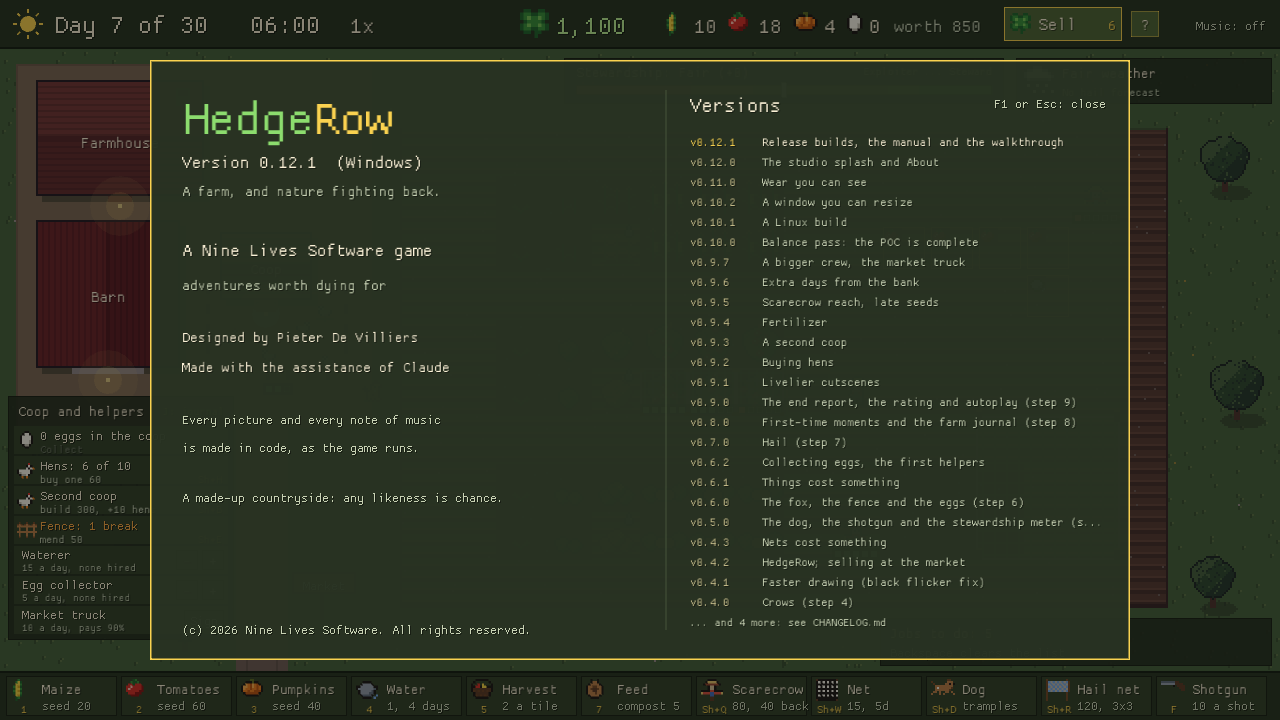
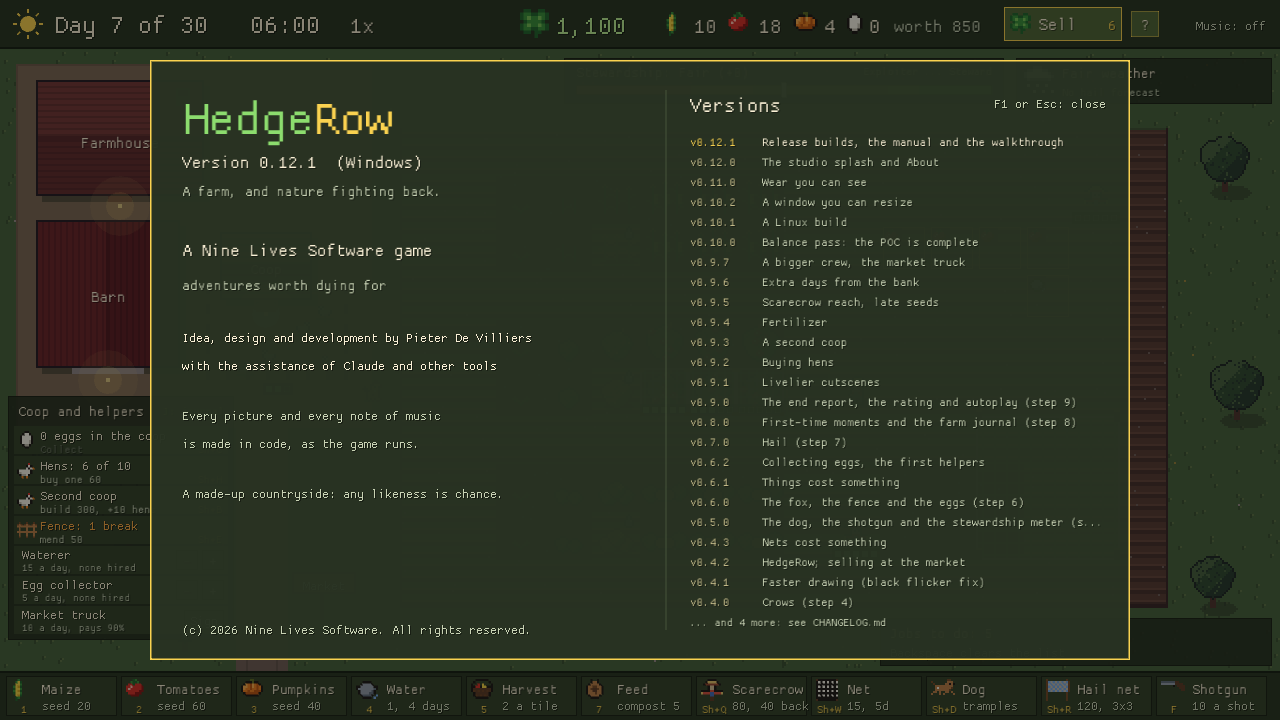
Credits: idea, design and development by Pieter De Villiers, with the assistance of Claude and other tools

Changed region(s): [[0.125, 0.4583, 0.375, 0.5194], [0.1562, 0.6722, 0.375, 0.7028], [0.1562, 0.6111, 0.3125, 0.6417]]

diff --git a/games/hedgerow/index.html b/games/hedgerow/index.html
@@ -15,7 +15,7 @@
   <div class="wrap">
     <p style="margin-top:24px"><a href="../../">&larr; Nine Lives Software</a></p>
     <h1>HedgeRow</h1>
-    <p><span class="badge">First look</span><span class="note">One season &middot; v0.12.1 &middot; Windows &amp; Linux &middot; designed by Pieter De Villiers</span></p>
+    <p><span class="badge">First look</span><span class="note">One season &middot; v0.12.1 &middot; Windows &amp; Linux &middot; by Pieter De Villiers</span></p>
 
     <img src="docs/images/playing.png" alt="The farm on day 7: maize, tomatoes and pumpkins, nets, scarecrows and a hail net" style="width:100%;image-rendering:pixelated;border:1px solid var(--line)">
 
@@ -71,7 +71,7 @@
     </ul>
 
     <footer>
-      <p>&copy; 2026 Nine Lives Software. All rights reserved. Designed by Pieter De Villiers; made with the assistance of Claude.</p>
+      <p>&copy; 2026 Nine Lives Software. All rights reserved. Idea, design and development by Pieter De Villiers, with the assistance of Claude and other tools.</p>
       <p>Every picture and every note is generated in code. Built with macroquad (MIT / Apache-2.0) - see
         <a href="https://github.com/phonie-bytes/nine-lives-software/blob/main/THIRD-PARTY.md">third-party notices</a>.</p>
       <p>This is a work of fiction. The countryside in HedgeRow is imaginary and the clover is a made-up

diff --git a/games/noir/index.html b/games/noir/index.html
@@ -15,7 +15,7 @@
   <div class="wrap">
     <p style="margin-top:24px"><a href="../../">&larr; Nine Lives Software</a></p>
     <h1>NOIR: The Midnight Ledger</h1>
-    <p><span class="badge">Release 4</span><span class="note">Act One: Who Killed Eddie Walsh? &middot; v5.21.3 &middot; designed by Pieter De Villiers</span></p>
+    <p><span class="badge">Release 4</span><span class="note">Act One: Who Killed Eddie Walsh? &middot; v5.21.3 &middot; by Pieter De Villiers</span></p>
 
     <img src="docs/images/look_accent.png" alt="Harbor Street at night, the Blue Moon's neon in the rain" style="width:100%;image-rendering:pixelated;border:1px solid var(--line)">
 
@@ -101,7 +101,7 @@
     </ul>
 
     <footer>
-      <p>&copy; 2026 Nine Lives Software. All rights reserved. Designed by Pieter De Villiers; made with the assistance of Claude.</p>
+      <p>&copy; 2026 Nine Lives Software. All rights reserved. Idea, design and development by Pieter De Villiers, with the assistance of Claude and other tools.</p>
       <p>Every picture, note and word is generated in code. The browser edition uses the Courier Prime typeface
         (SIL Open Font License) and the miniquad / quad-storage web loaders (MIT / Apache-2.0) - see
         <a href="https://github.com/phonie-bytes/nine-lives-software/blob/main/THIRD-PARTY.md">third-party notices</a>.</p>

diff --git a/index.html b/index.html
@@ -75,7 +75,8 @@
       our love letter to them: deductions you make yourself, and a few second chances if you've
       earned them.</p>
     <p>We also build <strong>custom software</strong>: tools and applications made to order.</p>
-    <p>Designed by <strong>Pieter De Villiers</strong>, made with the assistance of Claude.</p>
+    <p>Idea, design and development by <strong>Pieter De Villiers</strong>, with the assistance of
+      Claude and other tools.</p>
 
     <footer>
       <p>&copy; 2026 Nine Lives Software. All rights reserved.</p>

diff --git a/README.md b/README.md
@@ -18,7 +18,7 @@ The games' source code is kept privately.
 - `games/<game>/` - each game: its page, `play/` (the browser edition), `docs/` (manual, walkthrough, history)
 - Windows builds are attached to this repository's [Releases](https://github.com/phonie-bytes/nine-lives-software/releases)
 
-Games designed by Pieter De Villiers, made with the assistance of Claude.
+Idea, design and development by Pieter De Villiers, with the assistance of Claude and other tools.
 &copy; 2026 Nine Lives Software. All rights reserved - see [LICENSE.md](LICENSE.md) and [THIRD-PARTY.md](THIRD-PARTY.md).
 
 *Our games are works of fiction. Names, characters, businesses, places, events and incidents are either

diff --git a/games/hedgerow/docs/MANUAL.md b/games/hedgerow/docs/MANUAL.md
@@ -1,6 +1,6 @@
 # HedgeRow - Player's Manual
 
-*A Nine Lives Software game. Designed by Pieter De Villiers.*
+*A Nine Lives Software game by Pieter De Villiers.*
 
 ![HedgeRow](images/splash.png)
 
@@ -304,7 +304,8 @@ version so far.
 
 ## Credits
 
-Designed by **Pieter De Villiers**. Made with the assistance of Claude.
+Idea, design and development by **Pieter De Villiers**, with the assistance of Claude and
+other tools.
 Every picture and every note of music in HedgeRow is made in code as the game runs.
 
 &copy; 2026 Nine Lives Software. All rights reserved.
